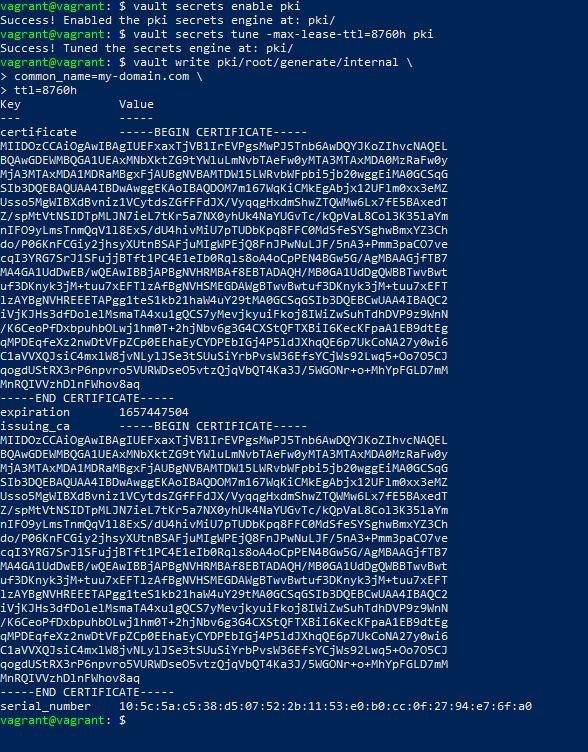
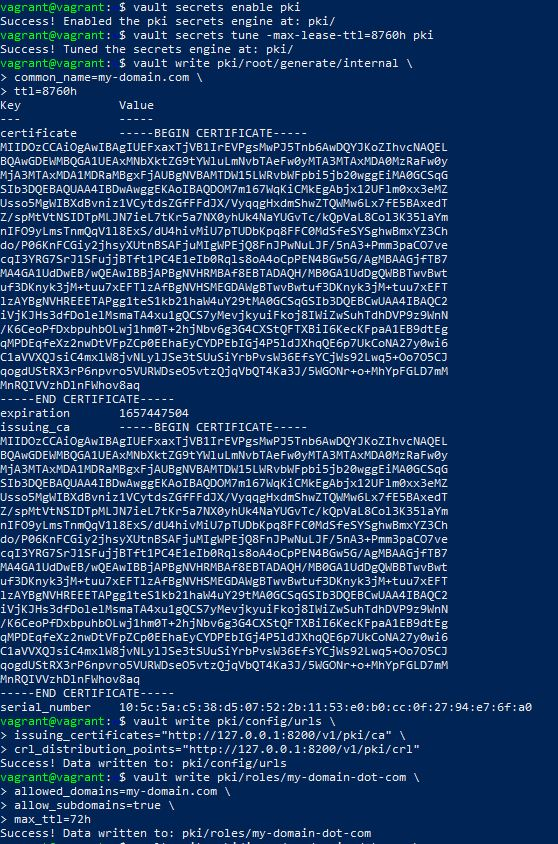
hw 09.2

diff --git a/03-sysadmin-09-security/README.md b/03-sysadmin-09-security/README.md
@@ -6,3 +6,5 @@
 <img src="../03-sysadmin-09-security/img/sec92.JPG">
 <p>3. Cоздал Root CA и Intermediate CA</p>
 <img src="../03-sysadmin-09-security/img/sec93.JPG">
+<img src="../03-sysadmin-09-security/img/sec94.JPG">
+<img src="../03-sysadmin-09-security/img/sec95.JPG">
